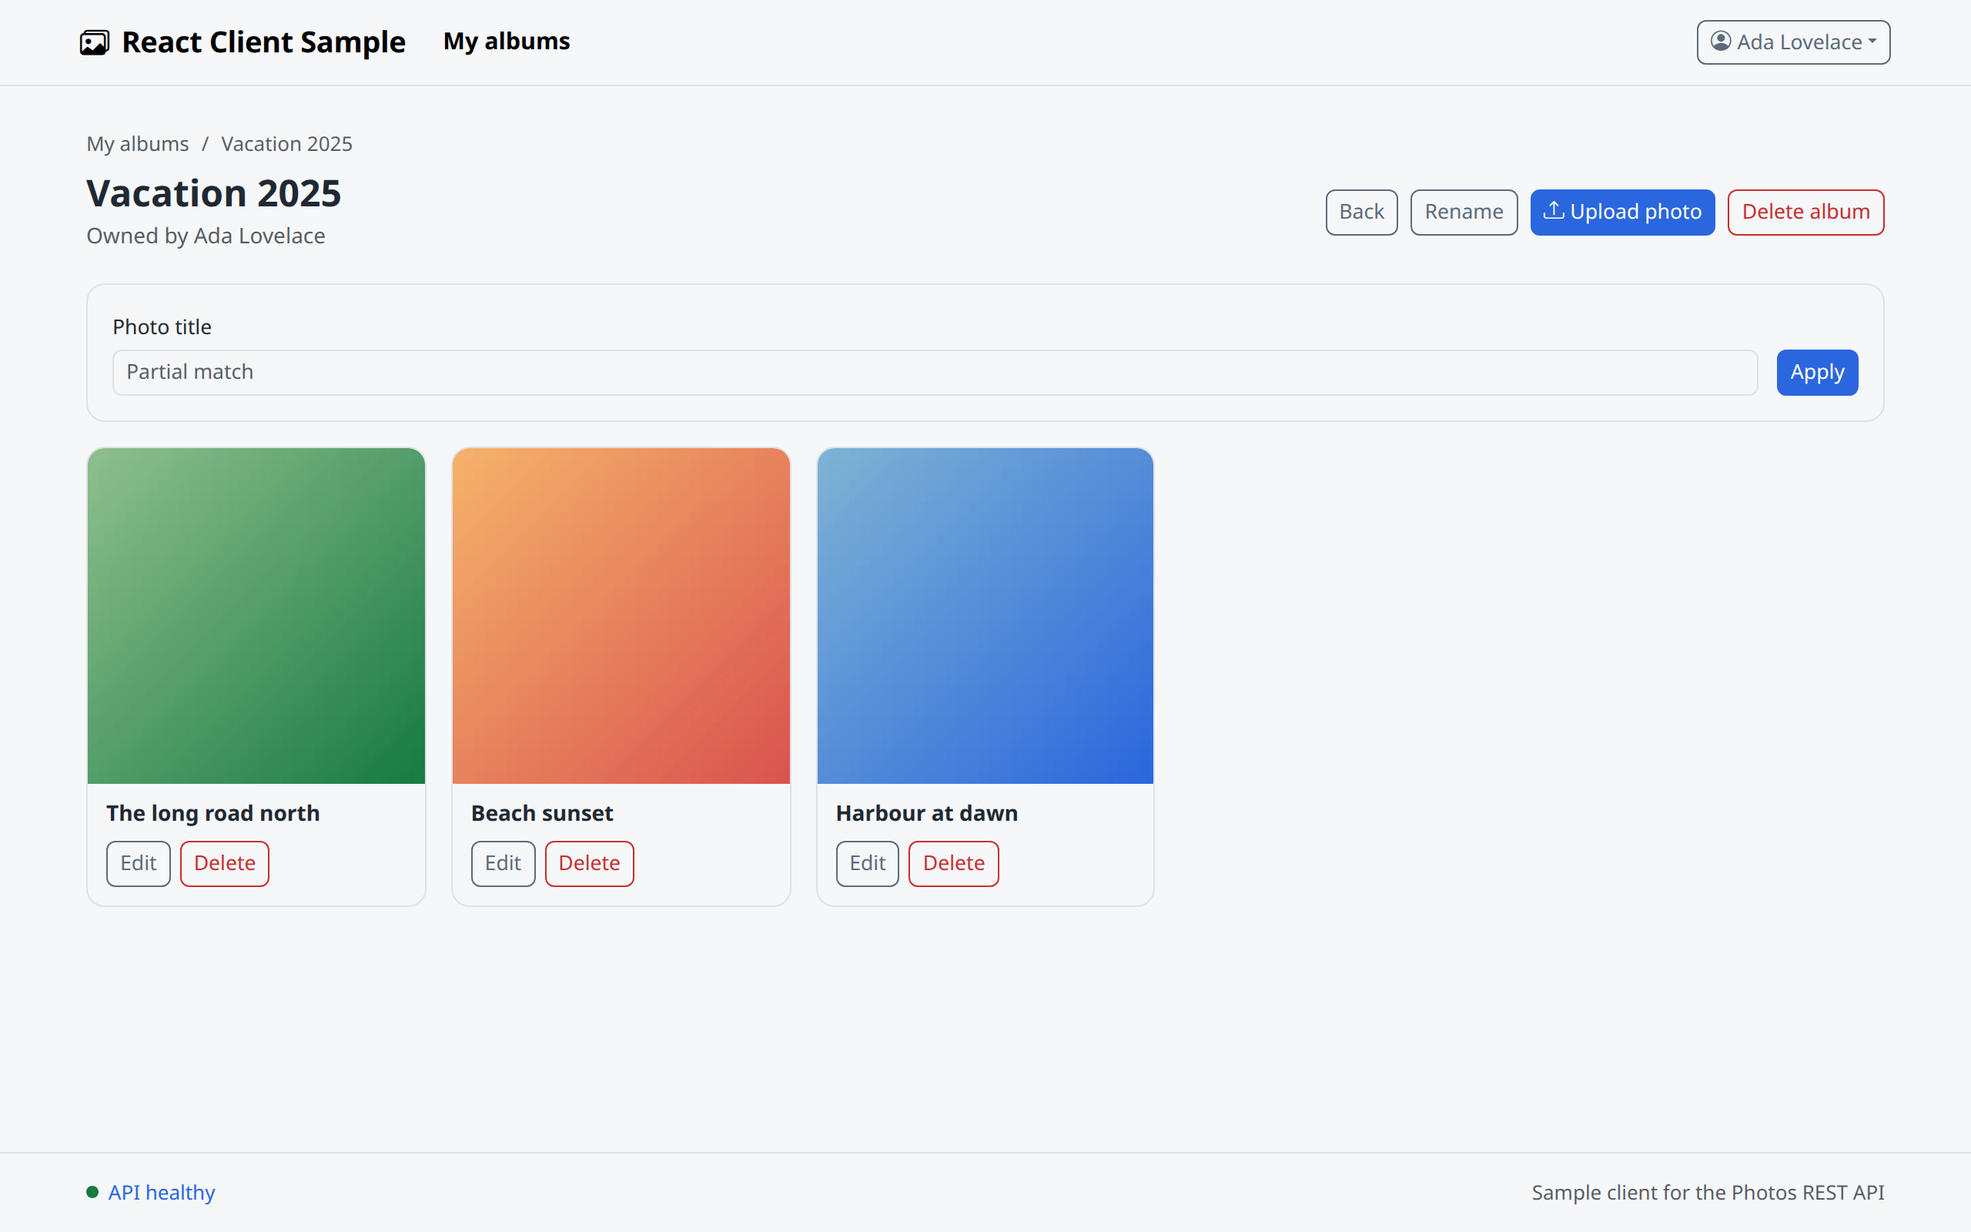
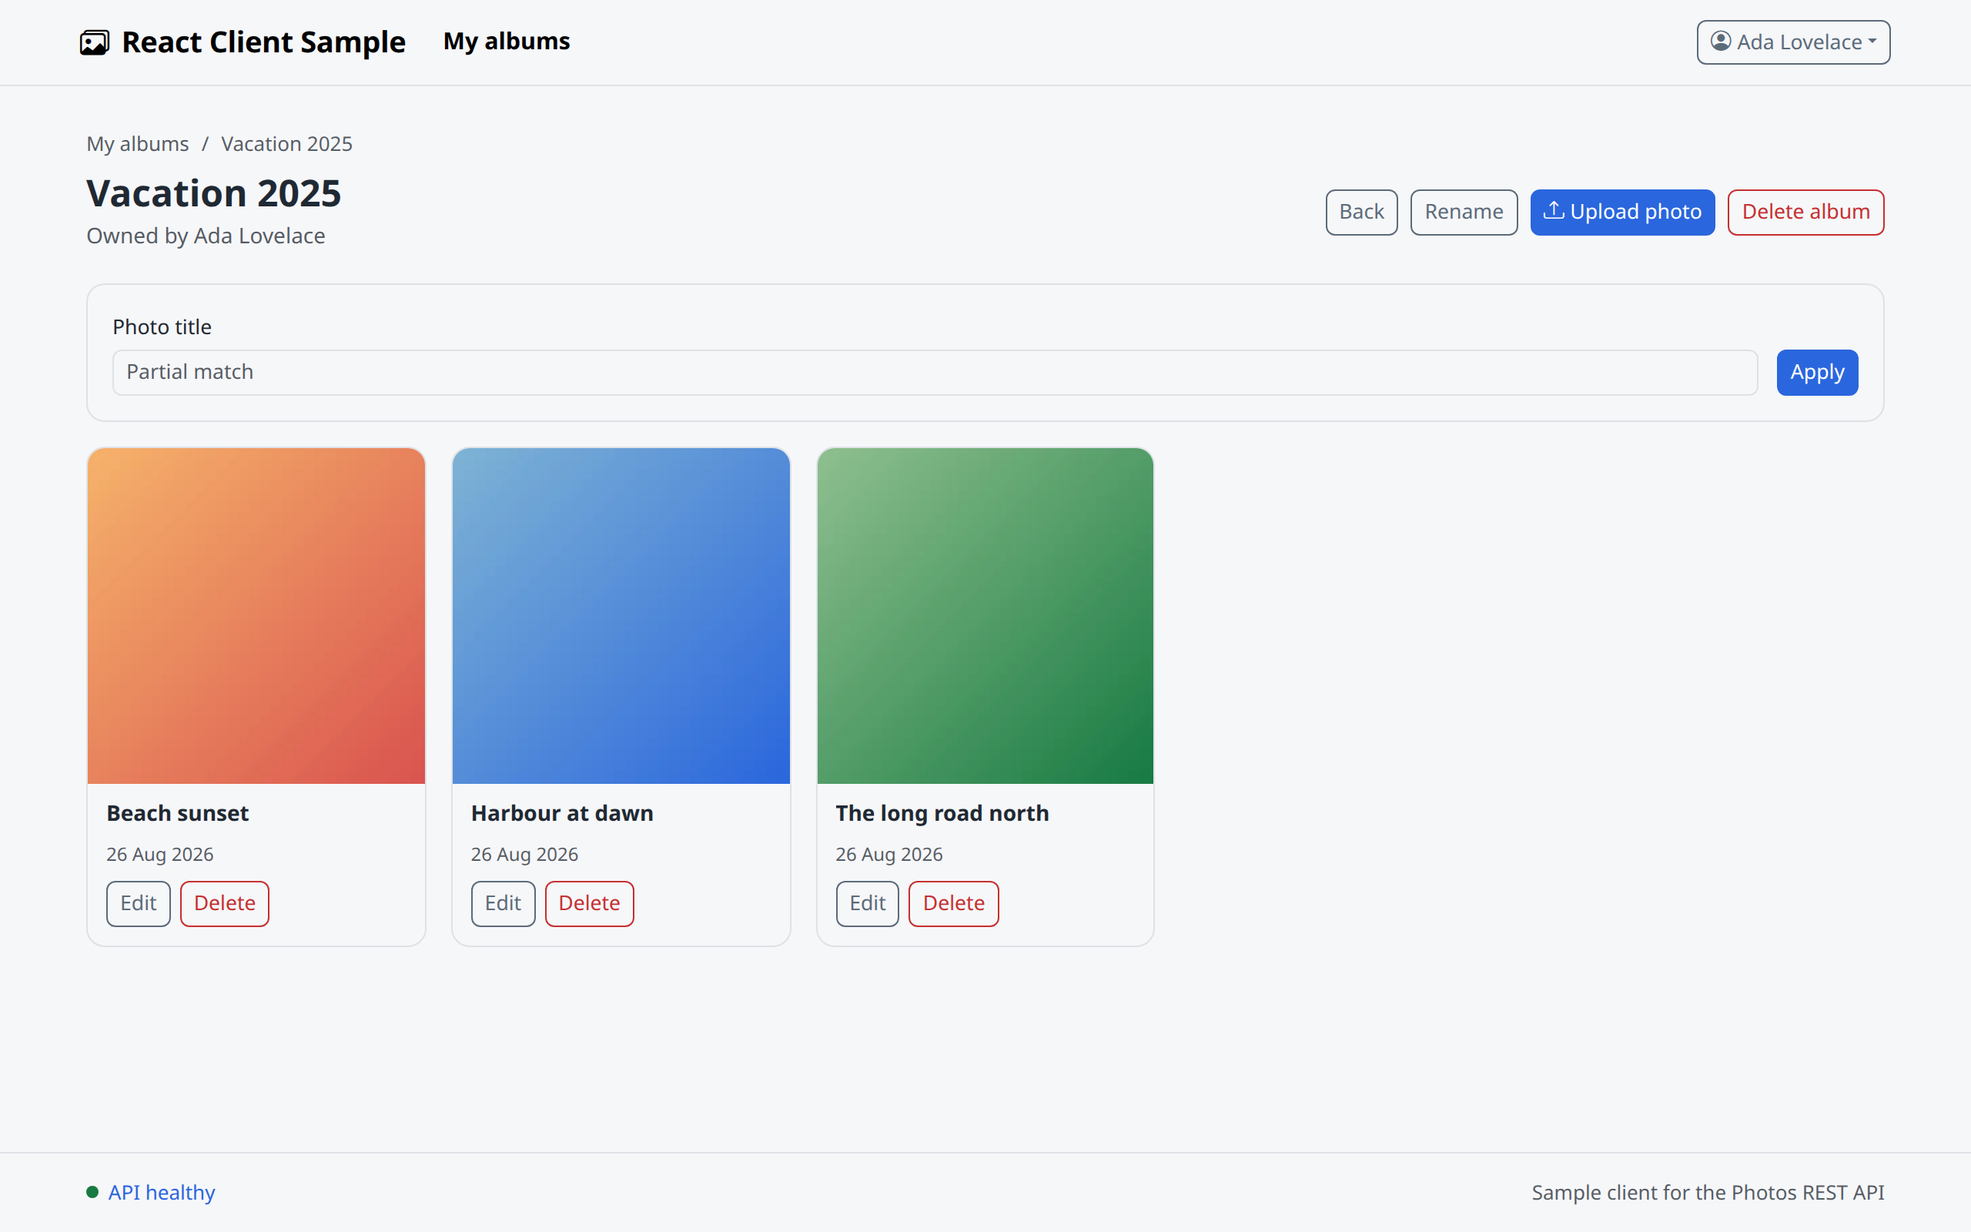
docs: bring every document level with the code
Two commits of refactoring updated only the claims they made outright
false, so the rest drifted. The handbook had the worst of it: test
counts, the src/ tree, the command tables, and a `make check` that had
grown three gates since anyone described it.

Also fills a hole older than either commit. codeql.yml runs on every push
and was named in no document at all — worth saying, because it answers a
question the type-aware lint does not: not whether the code is well
formed, but whether it can be made to misbehave. The CI section now lists
all five workflows rather than two.

ADR 6 claimed exactly two reads of import.meta.env outside src/config and
named two files; there are three reads across those two, main.tsx also
reading BASE_URL for the service worker's URL. The rule is unchanged, the
count was wrong. The other seven ADRs were checked against the code and
needed nothing.

Screenshots regenerated from the running stack — unchanged to look at,
which is the point of regenerating them.

Changed region(s): [[0.0312, 0.3438, 0.5938, 0.75]]

diff --git a/docs/handbook.md b/docs/handbook.md
@@ -121,23 +121,28 @@ first, or override: `make prod-run PROD_PORT=8094 PROD_API_URL=https://api.examp
 
 ### Tests
 
-| Command                | What it does                                               |
-| ---------------------- | ---------------------------------------------------------- |
-| `make test`            | The whole Vitest suite (unit + functional)                 |
-| `make test-unit`       | Unit only — services, forms, transport, in isolation       |
-| `make test-functional` | Functional only — whole pages against MSW                  |
-| `make test-one file=…` | A single test file                                         |
-| `make e2e-install`     | Install the Playwright browser — once per machine _(host)_ |
-| `make test-e2e`        | The Playwright suite against the running stack _(host)_    |
+| Command                | What it does                                                   |
+| ---------------------- | -------------------------------------------------------------- |
+| `make test`            | The whole Vitest suite — unit, contract and functional         |
+| `make test-coverage`   | The same, with the 100% thresholds enforced                    |
+| `make test-unit`       | Unit only — services, forms, transport, reducers, in isolation |
+| `make test-contract`   | Contract only — the client against the OpenAPI document        |
+| `make test-functional` | Functional only — whole pages against MSW                      |
+| `make test-one file=…` | A single test file                                             |
+| `make e2e-install`     | Install the Playwright browser — once per machine _(host)_     |
+| `make test-e2e`        | The Playwright suite against the running stack _(host)_        |
 
 ### Quality gates
 
-| Command          | What it does                                                            |
-| ---------------- | ----------------------------------------------------------------------- |
-| `make cs-check`  | Report style violations (Prettier + ESLint + Stylelint), change nothing |
-| `make cs-fix`    | Reformat the whole codebase in one command                              |
-| `make typecheck` | The TypeScript compiler in check-only mode                              |
-| `make check`     | `cs-check` + `typecheck` + `test` — exactly what CI runs                |
+| Command            | What it does                                                                                 |
+| ------------------ | -------------------------------------------------------------------------------------------- |
+| `make cs-check`    | Report style violations (Prettier + ESLint + Stylelint), change nothing                      |
+| `make cs-fix`      | Reformat the whole codebase in one command                                                   |
+| `make typecheck`   | The TypeScript compiler in check-only mode                                                   |
+| `make size`        | The built bundle against its budget                                                          |
+| `make spec-verify` | Do the committed types match the committed OpenAPI document?                                 |
+| `make spec-drift`  | Has that document moved? _(reads `SPEC_URL`, changes nothing)_                               |
+| `make check`       | `cs-check` + `spec-verify` + `typecheck` + `build` + `size` + `test-coverage` — what CI runs |
 
 ---
 
@@ -190,16 +195,19 @@ Repository → ActiveRecord**, translated to what a client actually has:
 
 ```
 src/
-  app/            store, router, slices, typed hooks        (composition root)
+  app/            store, router, paths, slices, typed hooks (composition root)
   config/         runtime configuration (env.js ?? import.meta.env)
-  contracts/      TokenStorage, PermissionChecker           (the DI seams)
-  types/          DTOs + envelope, pagination, ApiError
+  contracts/      TokenStorage, PermissionChecker,          (the DI seams)
+                  ErrorReporter, ThemePreference
+  types/          DTOs + envelope, pagination, ApiError, ListQuery
   api/            transport: envelope, errors, re-auth
   repositories/   one module per resource, injected into one RTK Query API
-  services/       PermissionService, AlbumPolicy, ListQueryBuilder, TokenStorage
-  forms/          rules + schemas — the client's form requests
+  services/       PermissionService + one policy per resource, ListQueryBuilder,
+                  TokenStorage, theme, error reporting, DateTime
+  forms/          rules + schemas + listSpecs — the client's form requests
   hooks/          useAuth, usePermissions, useListQuery, useApiForm,
-                  useMutationAction, useToggleSelection, useNotifications
+                  useMutationAction, useToggleSelection, useNotifications,
+                  useNumericParam, useTheme, useDocumentTitle
   components/     layout/, guards/, ui/, and per-resource dialogs
   pages/          one folder per screen
   styles/         SCSS: variables → Bootstrap → our components
@@ -222,6 +230,17 @@ try/report/catch seven screens repeated), and
 [`UserUpdateForm`](../src/components/users/UserUpdateForm.tsx) (one form for the
 profile and the admin's view of an account).
 
+The same sweep, run again later, found four more: [`src/app/paths.ts`](../src/app/paths.ts)
+(every address, built from the pattern the route table declares, after
+twenty-five literals had been spelled out beside it), a delete dialog per
+resource rather than a `ConfirmDialog` inside two of the four list screens,
+`listTags`/`memberTags` in [`baseApi.ts`](../src/repositories/baseApi.ts) (the
+tag block five list endpoints had copied), and two things that were workarounds
+rather than decisions any screen made — `onSubmitHandler` in
+[`useApiForm`](../src/hooks/useApiForm.ts), and
+[`useNumericParam`](../src/hooks/useNumericParam.ts), which returns a record id
+together with the `skip` that keeps `/albums/NaN` from being requested.
+
 ### Transport
 
 `fetchBaseQuery` is wrapped twice, in [`src/api/`](../src/api/):
@@ -229,9 +248,14 @@ profile and the admin's view of an account).
 - **Envelope** — every response is `{success, data, code}`; the transport strips
   it, so repositories and everything above them work with plain DTOs.
 - **Errors** — HTTP, network and parse failures are normalised into one
-  `ApiError { code, message, fieldErrors }`. A 422's `data.error` maps straight
-  onto the offending form fields; a 409's message (a safety invariant refusing
-  the operation) is shown verbatim.
+  `ApiError { code, errorCode, message, fieldErrors, retryAfter?, requestId? }`.
+  `errorCode` is the field a program branches on and `message` is for a person,
+  never matched against ([ADR 8](adr/0008-branch-on-the-error-code.md)). A 422's
+  `data.error` maps straight onto the offending form fields; a 409's message (a
+  safety invariant refusing the operation) is shown verbatim. `retryAfter` and
+  `requestId` come from headers the API exposes cross-origin — the first makes a
+  429 say how long to wait, the second gives a bug report something the server
+  log is searchable by.
 - **Re-authentication** — on a 401 the transport refreshes once behind a mutex
   and replays the original request. The mutex matters: refresh tokens **rotate**
   and the API treats a re-used one as a leak, revoking the whole session — so two
@@ -361,11 +385,23 @@ length limits against the request body it is transcribed from.
 ```bash
 make sync-spec       # refetch openapi.yaml from SPEC_URL, regenerate types
 make spec-verify     # the offline half: do the committed types match that copy?
+make spec-drift      # has SPEC_URL moved since? (read-only)
 make test-contract   # see what moved
 ```
 
-The copy is committed because CI has no API to ask; `spec-drift.yml` refetches
-it on a schedule so the snapshot cannot quietly go stale. Three deliberate
+The copy is committed so the suite runs with no API to ask, which is also what
+makes it a snapshot that can go stale without anything noticing: `spec-verify`
+compares the two halves of that snapshot, and they stay consistent with each
+other long after the document they were taken from has changed.
+[`spec-drift.yml`](../.github/workflows/spec-drift.yml) is what notices —
+daily, it refetches the document, regenerates the types and re-runs the
+contract gates against them. It reads `API_SPEC_URL`, which points at **the API
+repository's own committed `config/openapi.yaml`** rather than a running
+instance: a hosted runner cannot reach the API on `localhost`, but a file under
+source control needs no server, and it is the same file the API serves at
+`/docs/openapi.yaml`. `make sync-spec` and `make spec-drift` read the same
+document through `SPEC_URL`, so what CI compares against and what you refresh
+from cannot diverge. Three deliberate
 asymmetries are encoded in the tests rather than left implicit: `POST
 /auth/refresh` is issued by the transport, not a repository; `/albums` offers a
 `user_id` filter the client does not — an album list response carries no owner,
@@ -407,7 +443,7 @@ cannot drift from what the suite proves.
 
 ## Testing
 
-Four suites. **534 Vitest tests** across 49 files (unit, contract and
+Four suites. **547 Vitest tests** across 50 files (unit, contract and
 functional) at **100% coverage — lines, branches, functions and statements** —
 plus **31 Playwright specs**.
 
@@ -427,8 +463,12 @@ make test-one file=tests/unit/services/albumPolicy.test.ts
 make test-e2e          # Playwright, against the real API (host)
 ```
 
-- **Unit** ([`tests/unit/`](../tests/unit/)) — services, form schemas, the error
-  normaliser and the list-query serialiser. No React, no network.
+- **Unit** ([`tests/unit/`](../tests/unit/)) — services, form schemas and list
+  specs, the error normaliser, the list-query serialiser, the route builders and
+  the reducers. No React, no network.
+- **Contract** ([`tests/contract/`](../tests/contract/)) — the client against the
+  vendored OpenAPI document, in both directions; see
+  [The contract suite](#the-contract-suite) above.
 - **Functional** ([`tests/functional/`](../tests/functional/)) — every page, plus
   the shared components and hooks, rendered with a real store and router against
   **MSW handlers written from the OpenAPI spec**. The mock re-implements the API's behaviour — the envelope, pagination,
@@ -505,7 +545,7 @@ The TypeScript compiler in check-only mode — `strict`, plus
 
 ```bash
 make typecheck
-make check      # cs-check + typecheck + test, exactly what CI runs
+make check      # cs-check + spec-verify + typecheck + build + size + test-coverage
 ```
 
 ---
@@ -536,18 +576,33 @@ stylesheet with the rest of the design.
 
 ## Continuous Integration & Delivery
 
-- **CI** ([`.github/workflows/ci.yml`](../.github/workflows/ci.yml)) — on every push
-  and pull request, the same three gates as locally and in the same order: code
-  style, static analysis, tests (with coverage). A second job runs the Playwright
-  suite; since the API is not part of this repository, it is **skipped unless the
-  `E2E_API_URL` repository variable is set**, and is otherwise run locally with
-  `make test-e2e`.
-- **CD** ([`.github/workflows/cd.yml`](../.github/workflows/cd.yml)) — chained to a
-  green CI on `master`. It builds the `prod` stage with Buildx and smoke-tests
-  the real image: Apache serves the shell, falls back to it for a client-side
-  route, and the entrypoint injected the API URL. The release then runs through a
+Five workflows. CI is the gate; the other four each answer a question CI cannot.
+
+- **CI** ([`ci.yml`](../.github/workflows/ci.yml)) — on every push and pull
+  request, the same gates as `make check` and in the same order: an `npm audit`
+  of the runtime dependencies (build tooling is reported but does not block),
+  code style, the generated types against the vendored spec, static analysis,
+  the bundle and its budget, then the tests with coverage. A second job runs the
+  Playwright suite; since the API is not part of this repository, it is
+  **skipped unless the `E2E_API_URL` repository variable is set**, and is
+  otherwise run locally with `make test-e2e`.
+- **CD** ([`cd.yml`](../.github/workflows/cd.yml)) — chained to a green CI on
+  `master`. It builds the `prod` stage with Buildx and smoke-tests the real
+  image: Apache serves the shell, falls back to it for a client-side route, and
+  the entrypoint injected the API URL. The release then runs through a
   `production` GitHub Environment, but is **simulated** — this sample provisions
   no server.
+- **Demo and UI kit** ([`pages.yml`](../.github/workflows/pages.yml)) — chained
+  to a green CI the same way, it publishes the MSW-backed demo and Storybook to
+  GitHub Pages. Nothing is published from a commit whose tests did not pass.
+- **Spec drift** ([`spec-drift.yml`](../.github/workflows/spec-drift.yml)) —
+  daily, it refetches the API's OpenAPI document and re-runs the contract gates
+  against it, because every other gate reads the committed snapshot. See
+  [The contract suite](#the-contract-suite).
+- **CodeQL** ([`codeql.yml`](../.github/workflows/codeql.yml)) — static security
+  analysis on push, pull request and a weekly schedule. A different question
+  from the type-aware lint in CI: that one asks whether the code is well formed,
+  this one asks whether it can be made to misbehave.
 
 ---
 
@@ -569,7 +624,7 @@ stylesheet with the rest of the design.
 ## Project Structure
 
 ```
-├── .github/workflows/  # CI (cs-check, typecheck, tests) + CD (build image, deploy)
+├── .github/workflows/  # CI · CD · Pages (demo + UI kit) · spec drift · CodeQL
 ├── Dockerfile          # Multi-stage image: base → dev → build → prod (Apache)
 ├── .dockerignore       # Allow-list build context
 ├── docker-compose.yml  # Local dev stack (Vite dev server + preview port)
@@ -577,8 +632,9 @@ stylesheet with the rest of the design.
 ├── index.html          # The shell; loads /env.js before the bundle
 ├── public/env.js       # Runtime-config stub, overwritten in the production image
 ├── src/                # Application code (see Architecture)
+├── docs/               # This handbook, the ADRs, and the README's screenshots
 ├── tests/
-│   ├── unit/           # Layers in isolation (services, forms, transport)
+│   ├── unit/           # Layers in isolation (services, forms, transport, reducers)
 │   ├── functional/     # Pages, components/ and hooks/ against MSW
 │   ├── e2e/            # Playwright against the real API
 │   ├── mocks/          # MSW handlers, their gates, and the state behind them
@@ -586,7 +642,7 @@ stylesheet with the rest of the design.
 │   └── utils/          # renderWithProviders, checkerFor
 ├── .env.example        # Every environment variable, documented above
 ├── vite.config.ts      # Build, dev server, preview, SCSS options
-├── vitest.config.ts    # Two test projects + the 100% coverage thresholds
+├── vitest.config.ts    # Three test projects + the 100% coverage thresholds
 ├── playwright.config.ts
 ├── eslint.config.js    # Type-aware linting, with its exceptions justified
 ├── .prettierrc.json / .stylelintrc.json

diff --git a/README.md b/README.md
@@ -62,7 +62,7 @@ flowchart LR
   end
 
   C["contracts/<br/>TokenStorage · PermissionChecker<br/>ErrorReporter · ThemePreference"]
-  API[("Yii2/Laravel REST API")]
+  API[("Yii2 REST API")]
 
   P --> POL
   P --> F
@@ -88,8 +88,9 @@ flowchart LR
   issues, and each list's filters and sort whitelist, all checked against the
   vendored `openapi.yaml` — checked against, not generated from
   ([ADR 7](docs/adr/0007-openapi-as-a-checked-oracle.md)). `make spec-verify`
-  holds the committed types to that document, and a scheduled job refetches it
-  from the API so the snapshot cannot quietly go stale.
+  holds the committed types to that document; a daily job refetches the API's
+  own copy from its repository and re-runs the contract gates, so the snapshot
+  cannot quietly go stale.
 - **[`tests/mocks/`](tests/mocks/)** — a small re-implementation of the API,
   not canned responses, with its permission logic deliberately re-derived rather
   than imported from `src/` ([ADR 5](docs/adr/0005-mock-api-as-independent-mirror.md)).
@@ -97,7 +98,7 @@ flowchart LR
   one modal shell, one table, one loading/failed/empty triad, each shown on its
   own in both themes with axe running per component.
 
-**534 Vitest tests at 100% coverage** — lines, branches, functions and
+**547 Vitest tests at 100% coverage** — lines, branches, functions and
 statements — plus 31 Playwright specs. Coverage is a build gate, not a report:
 an uncovered line fails the commit that introduced it.
 

diff --git a/docs/adr/0006-runtime-configuration.md b/docs/adr/0006-runtime-configuration.md
@@ -30,9 +30,12 @@ is an empty stub in dev.
   once the container starts. A policy written into `app.conf` would either allow
   every host — most of the point gone — or break the one-image promise. The CD
   smoke test asserts the injected host reaches both `env.js` and the header.
-- There are exactly two deliberate exceptions to "never read `import.meta.env`
-  outside `src/config`", both build-time by nature rather than deployment-time,
-  and both commented where they appear: `VITE_DEMO` in `src/main.tsx`, which
-  must stay a literal so the mock API is dropped from a normal build, and
-  Vite's own `BASE_URL` in `src/app/App.tsx`, which is the subdirectory the demo
-  is published under.
+- Two files are exempt from "never read `import.meta.env` outside `src/config`",
+  and only for values that are build-time by nature rather than
+  deployment-time. Each is commented where it appears. `src/main.tsx` reads
+  `VITE_DEMO`, which must stay a literal so Rollup can see the branch is dead in
+  a normal build and drop the whole of MSW with it, and Vite's `BASE_URL` for
+  the service worker's URL; `src/app/App.tsx` reads `BASE_URL` for the router's
+  basename. `BASE_URL` is the subdirectory the demo is published under — a
+  property of the artifact, not of where it is pointed, which is what keeps it
+  on this side of the rule.
